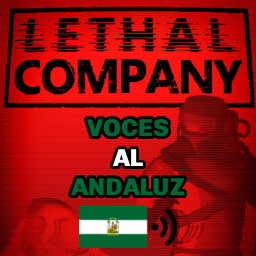
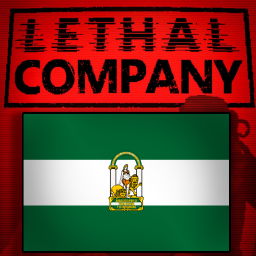
Add files via upload

diff --git a/Traduccion-Andaluz/README.md b/Traduccion-Andaluz/README.md
@@ -1,0 +1,5 @@
+# Traduccion de las voces del juego al Andaluz.
+
+
+Mod original de "Kazyax-SpanishVoicesLocalization", yo solo sustitui las voces
+

diff --git a/Traduccion-Andaluz/CHANGELOG.md b/Traduccion-Andaluz/CHANGELOG.md
@@ -1,2 +1,5 @@
+## **1.0.1**
+- Cambio de icono para mejor visualizacion
+
 ## **1.0.0**
 - Mod uploaded.
